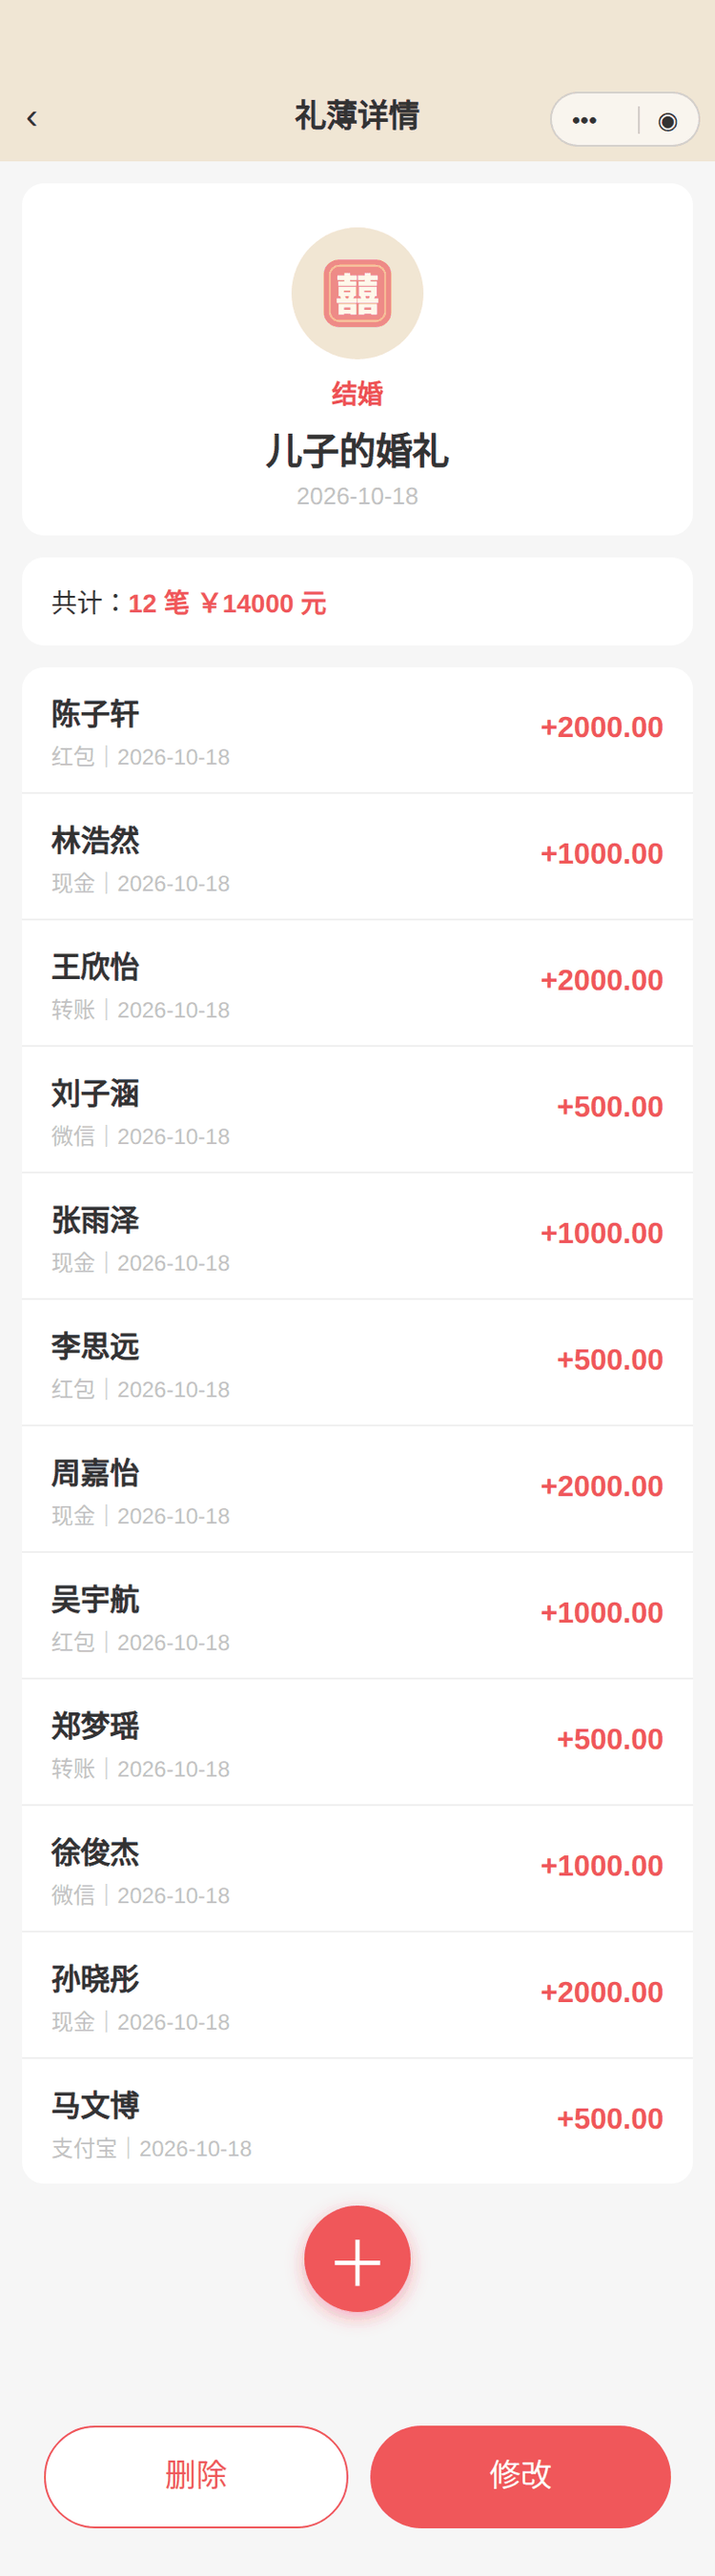
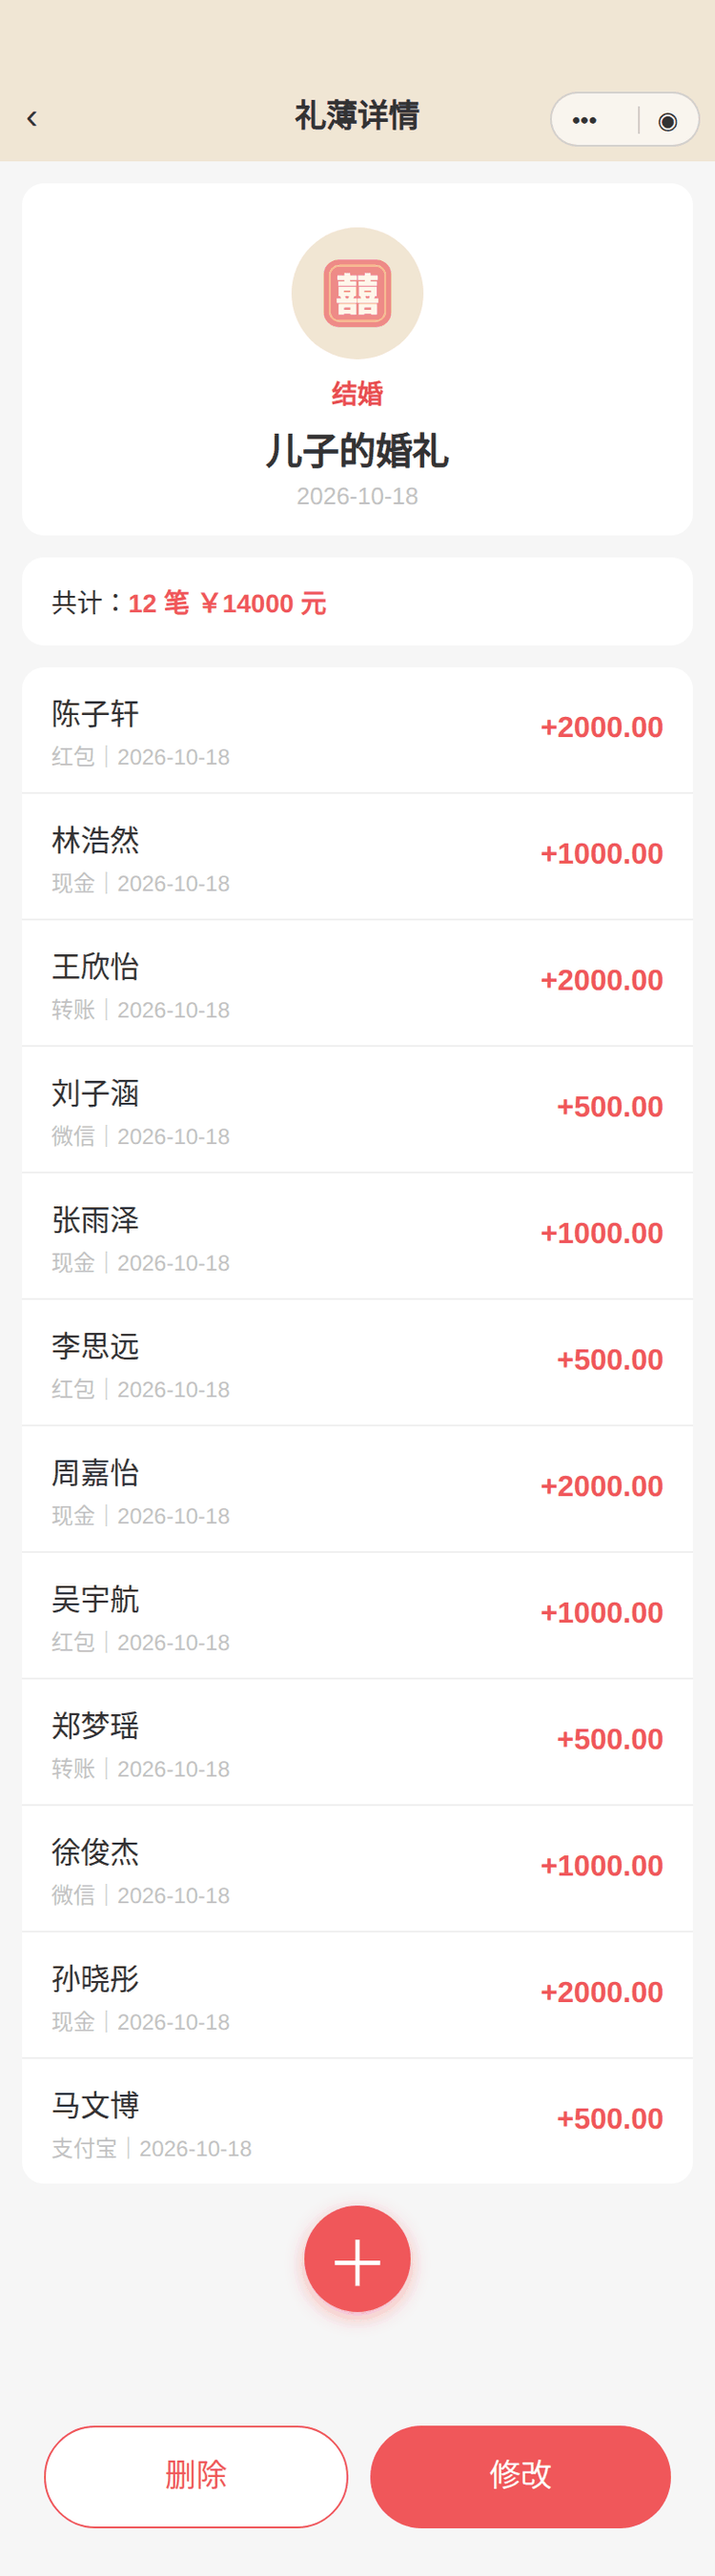
AH批引导图再改：复刻名字字重对齐真机观感（600→500、事件名700→600）+ 竖线树金额只用1000/2000

diff --git a/docs/screens/guide-assets-src/receive-records.html b/docs/screens/guide-assets-src/receive-records.html
@@ -18,14 +18,14 @@ body { width:390px; background:#F6F6F6; font-family:-apple-system,"PingFang SC",
 .pat-big { width:72px; height:72px; border-radius:50%; background:#F1E6D3; margin:0 auto; display:flex; align-items:center; justify-content:center; }
 .pat-big img { width:52px; height:52px; }
 .pat-name { font-size:14px; color:#E05353; font-weight:700; margin-top:8px; display:block; }
-.event-name { font-size:20px; font-weight:700; margin-top:6px; display:block; }
+.event-name { font-size:20px; font-weight:600; margin-top:6px; display:block; }
 .event-date { font-size:13px; color:#C2C2C2; margin-top:4px; display:block; }
 .summary { padding:14px 16px; font-size:14px; }
 .summary .red { color:#F0575A; font-weight:600; }
 .rec-row { display:flex; align-items:center; padding:12px 16px; min-height:60px; border-bottom:1px solid #F0F0F0; }
 .rec-row:last-child { border-bottom:none; }
 .mid { flex:1; display:flex; flex-direction:column; }
-.nm { font-size:16px; font-weight:600; }
+.nm { font-size:16px; font-weight:500; }
 .sub { font-size:12px; color:#C2C2C2; margin-top:3px; }
 .amt { font-size:16px; font-weight:600; color:#F0575A; }
 .fab-zone { position:relative; height:120px; }

diff --git a/docs/screens/guide-assets-src/timeline.html b/docs/screens/guide-assets-src/timeline.html
@@ -1,7 +1,7 @@
 <!DOCTYPE html><html><head><meta charset="utf-8"><style>
 /* 引导图3 · 往来竖线树（静态复刻）
    数据口径（2026-10-25 用户定）：与亲友「陆子昂」的往来，全图共 4 条；送礼用标签；
-   收礼条目不出现人名、用亲人称谓的事件命名（女儿的升学宴、儿子的婚礼）。
+   收礼条目不出现人名、用亲人称谓的事件命名（女儿的升学宴、儿子的婚礼）；金额只用 1000/2000。
    顺序与真实页面一致：core/stats 按日期从早到晚。金额：条目无 ¥ 前缀、
    送出负号/收到正号、两位小数（formatAmount）；底部汇总带 ¥ 两位小数，
    差额 = |收到 − 送出|。版式按 pages/timeline 的 wxml/wxss（rpx 按 390/750 换算）。 */
@@ -41,8 +41,8 @@ body { width:390px; background:#F6F6F6; font-family:-apple-system,"PingFang SC",
 </div>
 
 <div class="sumbar">
-  <div>送出：¥1600.00</div>
+  <div>送出：¥2000.00</div>
   <div>收到：¥3000.00</div>
-  <div><span class="dl">差额：</span>¥1400.00</div>
+  <div><span class="dl">差额：</span>¥1000.00</div>
 </div>
 </body></html>

diff --git a/docs/screens/guide-assets-src/gifts.html b/docs/screens/guide-assets-src/gifts.html
@@ -22,7 +22,7 @@ body { width:390px; background:#F6F6F6; font-family:-apple-system,"PingFang SC",
 .pat { width:44px; height:44px; border-radius:50%; background:#F5F6F4; display:flex; align-items:center; justify-content:center; flex:none; }
 .pat img { width:30px; height:30px; }
 .mid { flex:1; margin-left:12px; display:flex; flex-direction:column; }
-.nm { font-size:16px; font-weight:600; }
+.nm { font-size:16px; font-weight:500; }
 .sub { font-size:12px; color:#C2C2C2; margin-top:3px; }
 .amt { font-size:16px; font-weight:600; }
 .fab-zone { position:relative; height:96px; }
